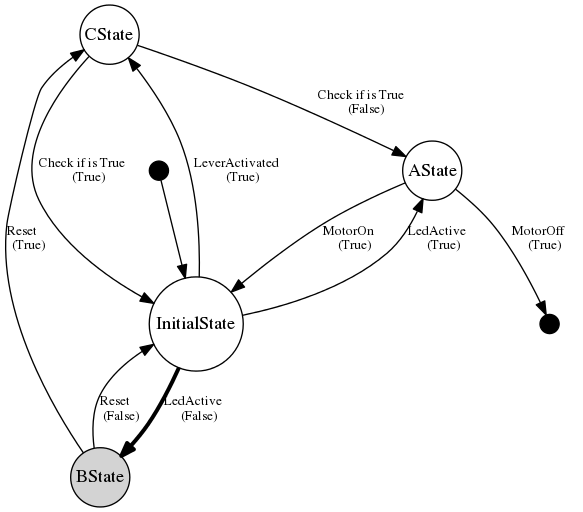
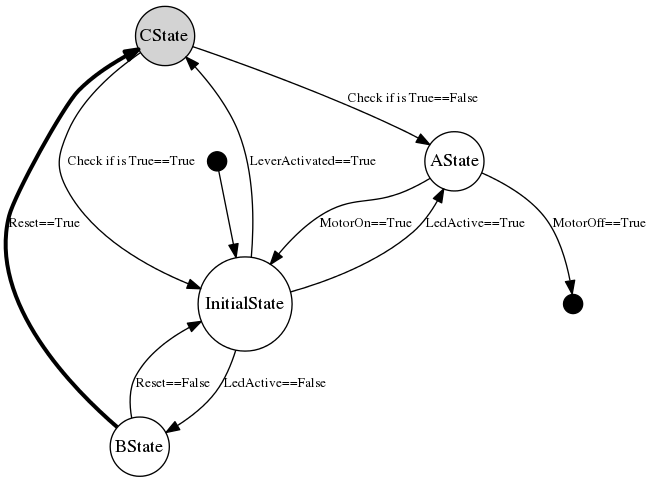
.

diff --git a/pyStateMachine/StateMachineControllers/StatesController.py b/pyStateMachine/StateMachineControllers/StatesController.py
@@ -10,7 +10,7 @@ __email__       = "ricardojvr@gmail.com"
 __status__      = "Production"
 
 from pyStateMachine.States.State import EndState
-
+import pydot
 
 class StatesController(object):
 
@@ -28,6 +28,65 @@ class StatesController(object):
 		self._waitingStates = [ (None, initialState, None) ] 
 		
 
+	def exportGraph(self, filename='stateMachine.png'):
+		currentStates = self.currentStates
+		currentEdges  = self.currentEdges
+
+		# this time, in graph_type we specify we want a DIrected GRAPH
+		graph = pydot.Dot(graph_type='digraph', fontname='Verdana', ratio='1')
+
+		nodes = {}
+		# Draw the nodes
+		for nodeName, state in self._states.items():
+			
+			attrs = {'shape':'circle', 'margin': '0.02px'}
+
+			#If is drawing the EndNode
+			if state.__class__.__name__=='EndState': attrs.update({'shape':'point', 'width':'0.2', 'peripheries':'0.2'})
+			#If is drawing the first Node, add the Initial Node
+			if state==self._initial: startNode = pydot.Node('Start', shape='point', width='0.2' ); graph.add_node(startNode)
+			#If the node will be the next to be precessed
+			if state in currentStates: attrs.update({'style':'filled'})
+
+			node 			= pydot.Node( nodeName, **attrs ); graph.add_node(node)
+			nodes[nodeName] = [state, node]
+
+			#If is drawing the first Node, add an edge from the InitalNode to the first Node.
+			if state == self._initial: graph.add_edge( pydot.Edge(startNode, node, **({'penwidth':'3px'} if (None, state) in currentEdges else {}) ) )
+
+		#Draw edges
+		endNode = nodes['EndState']
+		for state0, node0 in nodes.values():
+			#For each Node draw the events edges
+			for e in state0.events:
+
+				label = "{0}==True".format(e.label)
+				extraComment = self.eventExtraComment(e, True)
+				if extraComment: label +='\n' + extraComment
+
+				#Draw the edge when the event result is True
+				state1, node1 = nodes[e.go2StateTrue] if e.go2StateTrue!=None else endNode
+				attrs = { 'label':label, 'fontsize':'10px' }
+				if (state0, state1) in currentEdges: attrs['penwidth']='3px'
+				edge = pydot.Edge(node0, node1, **attrs ); graph.add_edge( edge )
+
+				if e.go2StateFalse!=None:
+
+					label = "{0}==False".format(e.label)
+					extraComment = self.eventExtraComment(e, False)
+					if extraComment: label +='\n' + extraComment
+
+					#Draw the edge when the event result is False
+					state1, node1 = nodes[e.go2StateFalse] if e.go2StateFalse!=None else endNode
+					attrs = { 'label':label, 'fontsize':'10px' }
+					if (state0, state1) in currentEdges: attrs['penwidth']='3px'
+					edge = pydot.Edge(node0, node1, **attrs ); graph.add_edge( edge )
+	
+			
+		#Save and show the generated image
+		graph.write_png(filename)
+		
+	def eventExtraComment(self, e, result): return None
 
 		
 	def iterateStates(self):
@@ -61,7 +120,10 @@ class StatesController(object):
 		else:
 			print "State machine ended"
 
-		#print self.currentStatesNames
+
+	@property
+	def states(self): return self._states
+	
 		
 	@property 
 	def currentStatesNames(self): return [toState for fromState, toState, stateOutput in self._waitingStates]

diff --git a/pyStateMachine/StateMachineControllers/StatesControllerDebug.py b/pyStateMachine/StateMachineControllers/StatesControllerDebug.py
@@ -10,7 +10,7 @@ __email__       = "ricardojvr@gmail.com"
 __status__      = "Production"
 
 
-import pydot, cv2
+import cv2
 from pyStateMachine.StateMachineControllers.StatesController import StatesController
 from pyStateMachine.States.State import EndState
 
@@ -20,62 +20,14 @@ class StatesControllerDebug(StatesController):
 	"""
 
 	def showGraph(self):
-		currentStates = self.currentStates
-		currentEdges  = self.currentEdges
-
-		# this time, in graph_type we specify we want a DIrected GRAPH
-		graph = pydot.Dot(graph_type='digraph', fontname='Verdana', ratio='1')
-
-		nodes = {}
-		# Draw the nodes
-		for nodeName, state in self._states.items():
-			
-			attrs = {'shape':'circle', 'margin': '0.02px'}
-
-			#If is drawing the EndNode
-			if state.__class__.__name__=='EndState': attrs.update({'shape':'point', 'width':'0.2', 'peripheries':'0.2'})
-			#If is drawing the first Node, add the Initial Node
-			if state==self._initial: startNode = pydot.Node('Start', shape='point', width='0.2' ); graph.add_node(startNode)
-			#If the node will be the next to be precessed
-			if state in currentStates: attrs.update({'style':'filled'})
-
-			node 			= pydot.Node( nodeName, **attrs ); graph.add_node(node)
-			nodes[nodeName] = [state, node]
-
-			#If is drawing the first Node, add an edge from the InitalNode to the first Node.
-			if state == self._initial: graph.add_edge( pydot.Edge(startNode, node, **({'penwidth':'3px'} if (None, state) in currentEdges else {}) ) )
-
-
-		#Draw edges
-		endNode = nodes['EndState']
-		for state0, node0 in nodes.values():
-			#For each Node draw the events edges
-			for e in state0.events:
-
-				#Draw the edge when the event result is True
-				state1, node1 = nodes[e.go2StateTrue] if e.go2StateTrue!=None else endNode
-				attrs = { 'label':"{0}    \n(True)".format(e.label), 'fontsize':'10px' }
-				if (state0, state1) in currentEdges: attrs['penwidth']='3px'
-				edge = pydot.Edge(node0, node1, **attrs ); graph.add_edge( edge )
-
-				if e.go2StateFalse!=None:
-				
-					#Draw the edge when the event result is False
-					state1, node1 = nodes[e.go2StateFalse] if e.go2StateFalse!=None else endNode
-					attrs = { 'label':"{0}    \n(False)".format(e.label), 'fontsize':'10px' }
-					if (state0, state1) in currentEdges: attrs['penwidth']='3px'
-					edge = pydot.Edge(node0, node1, **attrs ); graph.add_edge( edge )
-	
-			
-		#Save and show the generated image
-		graph.write_png('stateMachine.png')
+		self.exportGraph()
 		img = cv2.imread('stateMachine.png')
 		#raw_input('please press a key...')
 		#print dd
 		#print img
 		#print '<img src="./stateMachine.png" />'
 		cv2.imshow('State machine', img)
-		key = cv2.waitKey(10)
+		key = cv2.waitKey(300)
 		if key==27: exit() #Exit in case ESC is pressed
 		#import time
 		#time.sleep(1) 

diff --git a/pyStateMachine/States/State.py b/pyStateMachine/States/State.py
@@ -27,7 +27,7 @@ def goto(true=None, false=None):
 
 class State(object):
 
-	def __init__(self): self.shared = None
+	def __init__(self, *args, **kargs): self.shared = None
 
 	def run(self, input=None):
 		print "Run State", self.__class__.__name__

diff --git a/setup.py b/setup.py
@@ -30,7 +30,6 @@ setup(
 		'pyStateMachine.States'],
 	
 	install_requires=[
-		"pydot",
-		"cv2",
+		"pydot"		
 	],
 )

diff --git a/example.py b/example.py
@@ -74,7 +74,7 @@ class CState(State):
 		"""
 		Check if is True
 		"""
-		return True
+		return False
 
 
 
